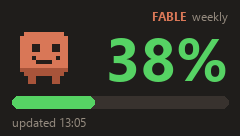
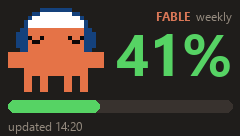
Replace the mascot with the headphone Clawd from the reference GIF
Trace the rest pose of the 9-frame bobbing animation onto a 24x21 cell
grid (12.5px cells from (78,118) in the 480px source, majority vote per
cell) and use it as the shared body: orange, blue headphones, white band.
The four moods become face overlays on that body: the reference's closed
contented eyes for happy, the same eyes flipped plus a drop for worried,
wide eyes with an open mouth and red ! for alarmed, flat eyes and a z for
asleep.

The sprite grew to 96x84 so the layout shifts: mascot at (8,8), gauge at
y=100, footer at y=118, number column from x=116 with the font fitted to
the remaining width. Every mood still encodes with zero mixed DXT1 blocks
under the sprite. Pushed live once: 16,840 bytes in 2.5s.

diff --git a/mascot.py b/mascot.py
@@ -1,106 +1,92 @@
-"""Pixel-art Clawd for the RT82 panel, with a face that tracks usage.
+"""Pixel-art Clawd with headphones for the RT82 panel; the face tracks usage.
 
-Every cell is drawn as a SCALE x SCALE square and the sprite is meant to be
-placed at a multiple of SCALE. With SCALE = 4 each cell is exactly one DXT1
-block, so the QGIF encoder reproduces the sprite pixel-perfect instead of
-smearing three colours into a two-colour block.
+The body is traced from a 24x21-cell reference animation (rest pose). Every
+cell is drawn as a SCALE x SCALE square and the sprite is placed at a multiple
+of SCALE: with SCALE = 4 each cell is exactly one DXT1 block, so the QGIF
+encoder reproduces it pixel-perfect instead of blending colours in a block.
 """
 from __future__ import annotations
 
 from PIL import Image, ImageDraw
 
 SCALE = 4
-SIZE = 16  # cells per side
+COLS, ROWS = 24, 21
 
-BODY = (217, 119, 87)     # Claude terracotta
-BODY_DK = (168, 84, 58)
-INK = (38, 30, 26)
-WHITE = (245, 240, 232)
+ORANGE = (229, 115, 71)
+BLUE = (20, 65, 124)
+INK = (14, 8, 8)
+WHITE = (255, 255, 255)
 RED = (248, 81, 73)
 DROP = (110, 170, 230)
 DIM = (150, 140, 128)
 
 PALETTE = {
-    "o": BODY, "d": BODY_DK, "k": INK, "w": WHITE,
-    "r": RED, "b": DROP, "g": DIM,
+    "o": ORANGE, "b": BLUE, "k": INK, "w": WHITE,
+    "r": RED, "c": DROP, "g": DIM,
 }
 
 # fmt: off
-SPRITES = {
-    "happy": [
-        "................",
-        "................",
-        "...oooooooooo...",
-        "..oooooooooooo..",
-        "..oooooooooooo..",
-        "..oookkoookkoo..",
-        "..oookkoookkoo..",
-        "..oooooooooooo..",
-        "..oookoooookoo..",
-        "..ooookkkkoooo..",
-        "..oooooooooooo..",
-        "..dddddddddddd..",
-        "...dddddddddd...",
-        "....dd....dd....",
-        "....dd....dd....",
-        "................",
+BASE = [
+    "........bbbbbbbb........",
+    "......bbwwwwwwwwbb......",
+    ".....bwwwwwwwwwwwwb.....",
+    "....bwwwwwwwwwwwwwwb....",
+    "....bwwwwwwwwwwwwwwb....",
+    "...bboooooooooooooobb...",
+    "..bbboooooooooooooobbb..",
+    "..bbboooooooooooooobbb..",
+    "..bbboooooooooooooobbb..",
+    "..bbboooooooooooooobbb..",
+    "...bboooooooooooooobb...",
+    "oooooooooooooooooooooooo",
+    "oooooooooooooooooooooooo",
+    "oooooooooooooooooooooooo",
+    "oooooooooooooooooooooooo",
+    "....oooooooooooooooo....",
+    "....oooooooooooooooo....",
+    "....oo..oo....oo..oo....",
+    "....oo..oo....oo..oo....",
+    "....oo..oo....oo..oo....",
+    "....oo..oo....oo..oo....",
+]
+
+# (row, col, cells) overlays on BASE. Eyes sit at cols 5-8 and 15-18.
+FACES = {
+    "happy": [                       # the reference's contented closed eyes
+        (7, 5, "k..k"), (7, 15, "k..k"),
+        (8, 5, ".kk."), (8, 15, ".kk."),
     ],
-    "worried": [
-        "................",
-        "................",
-        "...oooooooooo...",
-        "..oooooooooooob.",
-        "..ooookookoooob.",
-        "..oookkoookkoo..",
-        "..oookkoookkoo..",
-        "..oooooooooooo..",
-        "..oooooooooooo..",
-        "..oooookkkooooo.",
-        "..oooooooooooo..",
-        "..dddddddddddd..",
-        "...dddddddddd...",
-        "....dd....dd....",
-        "....dd....dd....",
-        "................",
+    "worried": [                     # same eyes upside down, a mouth, a drop
+        (7, 5, ".kk."), (7, 15, ".kk."),
+        (8, 5, "k..k"), (8, 15, "k..k"),
+        (10, 11, "kk"),
+        (6, 22, "c"), (7, 22, "c"),
     ],
-    "alarmed": [
-        "..............r.",
-        "..............r.",
-        "...oooooooooo.r.",
-        "..oooooooooooo..",
-        "..oowwwoowwwoor.",
-        "..oowkwoowkwoo..",
-        "..oowwwoowwwoo..",
-        "..oooooooooooo..",
-        "..oooookkkkoooo.",
-        "..oooookkkkoooo.",
-        "..oooooooooooo..",
-        "..dddddddddddd..",
-        "...dddddddddd...",
-        "....dd....dd....",
-        "....dd....dd....",
-        "................",
+    "alarmed": [                     # eyes wide open, mouth open, red !
+        (6, 5, "wwww"), (6, 15, "wwww"),
+        (7, 5, "wkkw"), (7, 15, "wkkw"),
+        (8, 5, "wkkw"), (8, 15, "wkkw"),
+        (9, 5, "wwww"), (9, 15, "wwww"),
+        (10, 10, "kkkk"), (11, 10, "kkkk"),
+        (0, 22, "r"), (1, 22, "r"), (2, 22, "r"), (4, 22, "r"),
     ],
-    "asleep": [
-        ".............ggg",
-        "..............g.",
-        "...ooooooooooggg",
-        "..oooooooooooo..",
-        "..oooooooooooo..",
-        "..oooooooooooo..",
-        "..oookkoookkoo..",
-        "..oooooooooooo..",
-        "..oooooooooooo..",
-        "..oooookkooooo..",
-        "..oooooooooooo..",
-        "..dddddddddddd..",
-        "...dddddddddd...",
-        "....dd....dd....",
-        "....dd....dd....",
-        "................",
+    "asleep": [                      # flat eyes and a z
+        (8, 5, "kkkk"), (8, 15, "kkkk"),
+        (0, 21, "ggg"), (1, 22, "g"), (2, 21, "ggg"),
     ],
 }
 # fmt: on
+
+
+def sprite(mood: str) -> list[str]:
+    rows = [list(r) for r in BASE]
+    for r, c, cells in FACES[mood]:
+        for i, ch in enumerate(cells):
+            if ch != ".":
+                rows[r][c + i] = ch
+            else:
+                rows[r][c + i] = "o"     # "." in a patch means body, not hole
+    return ["".join(r) for r in rows]
 
 
 def mood_for(pct: float | None) -> str:
@@ -115,9 +101,8 @@ def mood_for(pct: float | None) -> str:
 
 def draw(img: Image.Image, x: int, y: int, mood: str, scale: int = SCALE) -> None:
     """Paint the sprite with its top-left cell at (x, y)."""
-    rows = SPRITES[mood]
     dr = ImageDraw.Draw(img)
-    for r, row in enumerate(rows):
+    for r, row in enumerate(sprite(mood)):
         for c, ch in enumerate(row):
             colour = PALETTE.get(ch)
             if colour is None:
@@ -127,12 +112,13 @@ def draw(img: Image.Image, x: int, y: int, mood: str, scale: int = SCALE) -> Non
 
 
 def _check() -> None:
-    for name, rows in SPRITES.items():
-        assert len(rows) == SIZE, f"{name}: {len(rows)} rows"
-        for i, row in enumerate(rows):
-            assert len(row) == SIZE, f"{name} row {i}: {len(row)} cells"
+    assert len(BASE) == ROWS
+    for i, row in enumerate(BASE):
+        assert len(row) == COLS, f"base row {i}: {len(row)} cells"
+    for mood in FACES:
+        for i, row in enumerate(sprite(mood)):
             bad = set(row) - set(PALETTE) - {"."}
-            assert not bad, f"{name} row {i}: unknown cells {bad}"
+            assert not bad, f"{mood} row {i}: unknown cells {bad}"
 
 
 _check()

diff --git a/render.py b/render.py
@@ -33,9 +33,11 @@ DIM = (150, 140, 128)
 ACCENT = (217, 119, 87)
 TRACK = (56, 50, 46)
 
-MASCOT_XY = (12, 24)          # multiples of 4: see mascot.py on DXT1 blocks
-RIGHT = W - 12                # right edge for the number column
-COL_LEFT = MASCOT_XY[0] + mascot.SIZE * mascot.SCALE + 12
+MASCOT_XY = (8, 8)            # multiples of 4: see mascot.py on DXT1 blocks
+MASCOT_W = mascot.COLS * mascot.SCALE
+MASCOT_H = mascot.ROWS * mascot.SCALE
+RIGHT = W - 8                 # right edge for the number column
+COL_LEFT = MASCOT_XY[0] + MASCOT_W + 12
 
 
 def level_color(pct: float):
@@ -121,13 +123,12 @@ def render(pct) -> Image.Image:
     label = f"{int(round(pct))}%" if known else "--"
     f_big, bb = _fit(dr, label, BOLD, 60, RIGHT - COL_LEFT)
     tw, th = bb[2] - bb[0], bb[3] - bb[1]
-    m_top, m_h = MASCOT_XY[1], mascot.SIZE * mascot.SCALE
-    cy = m_top + m_h / 2 + 4
+    cy = MASCOT_XY[1] + MASCOT_H / 2 + 6
     dr.text((RIGHT - tw - bb[0], cy - th / 2 - bb[1]), label,
             font=f_big, fill=accent)
 
     # gauge, full width
-    x0, x1, y, th = 12, RIGHT, 96, 12
+    x0, x1, y, th = 8, RIGHT, 100, 12
     dr.rounded_rectangle([x0, y, x1, y + th], radius=6, fill=TRACK)
     if known and pct > 0:
         fill_w = int((x1 - x0) * min(1.0, pct / 100))
@@ -138,7 +139,7 @@ def render(pct) -> Image.Image:
     # when this frame was rendered; the screen may hold it for days
     stamp = f"{datetime.now():%H:%M}"
     foot = f"updated {stamp}" if known else f"usage unavailable  \u00b7  {stamp}"
-    dr.text((12, 114), foot, font=font(REG, 12), fill=DIM)
+    dr.text((8, 118), foot, font=font(REG, 12), fill=DIM)
     return img
 
 

diff --git a/README.md b/README.md
@@ -6,7 +6,8 @@ Claude Code `Stop` hook.
 ![panel](docs/preview.png)
 
 The panel shows the Fable weekly percentage, a colour-coded gauge, the time
-the frame was rendered, and a pixel-art Clawd whose face tracks the number:
+the frame was rendered, and a pixel-art Clawd in headphones whose face tracks
+the number:
 happy under 70%, worried to 90%, alarmed above, asleep when usage is unknown.
 The clock is deliberate: in 2.4GHz mode the screen holds its last frame, so
 the stamp says how stale the number is.
@@ -168,7 +169,10 @@ Each push erases and rewrites keyboard flash, hence the gates.
   `%TEMP%/cc-statusline-usage.json`. Only that script talks to the usage API; if
   the cache is older than 10 minutes this shells out to its existing
   `--fetch-usage` flag.
-- **Mascot**: `mascot.py`, four 16×16 hand-drawn grids, one per mood.
+- **Mascot**: `mascot.py`. A 24×21-cell body traced from the rest pose of a
+  Clawd-with-headphones animation, plus four face overlays, one per mood. The
+  source GIF bobs over 9 frames; only the rest pose is used until multi-frame
+  QGIF is proven.
 
 ## Licensing
 

diff --git a/CLAUDE.md b/CLAUDE.md
@@ -110,7 +110,14 @@ encoder wants 136).
 - **Keep the mascot on the 4px grid.** QGIF is DXT1: one 4×4 block holds two
   colours. `mascot.SCALE = 4` and a 4-aligned origin make every sprite cell one
   block, verified by decoding the encoder output (0 mixed blocks under the
-  sprite). Move it to an odd offset or scale and the edges smear.
+  sprite, all four moods). Move it to an odd offset or scale and the edges
+  smear. The sprite is 24×21 cells = 96×84px; the number column starts at
+  x=116 and `_fit()` shrinks the font so `100%` still fits.
+- The mascot body is traced from a 9-frame bobbing GIF (rest pose = frames 0
+  and 4; the others shift the body by one cell). When multi-frame QGIF works,
+  those frames are a ready-made animation. The sampling recipe is 24×21 cells
+  of 12.5px from origin (78,118) in the 480px GIF, majority vote over a 5×5
+  patch per cell.
 - QGIF single-frame layout: 10-byte header, 255 × `0xFF`, 16,320 block bytes
   starting at offset 265, 255 × `0x00` trailer. Useful for decoding our own
   output offline; a naive "header is 520 bytes" assumption is wrong.
